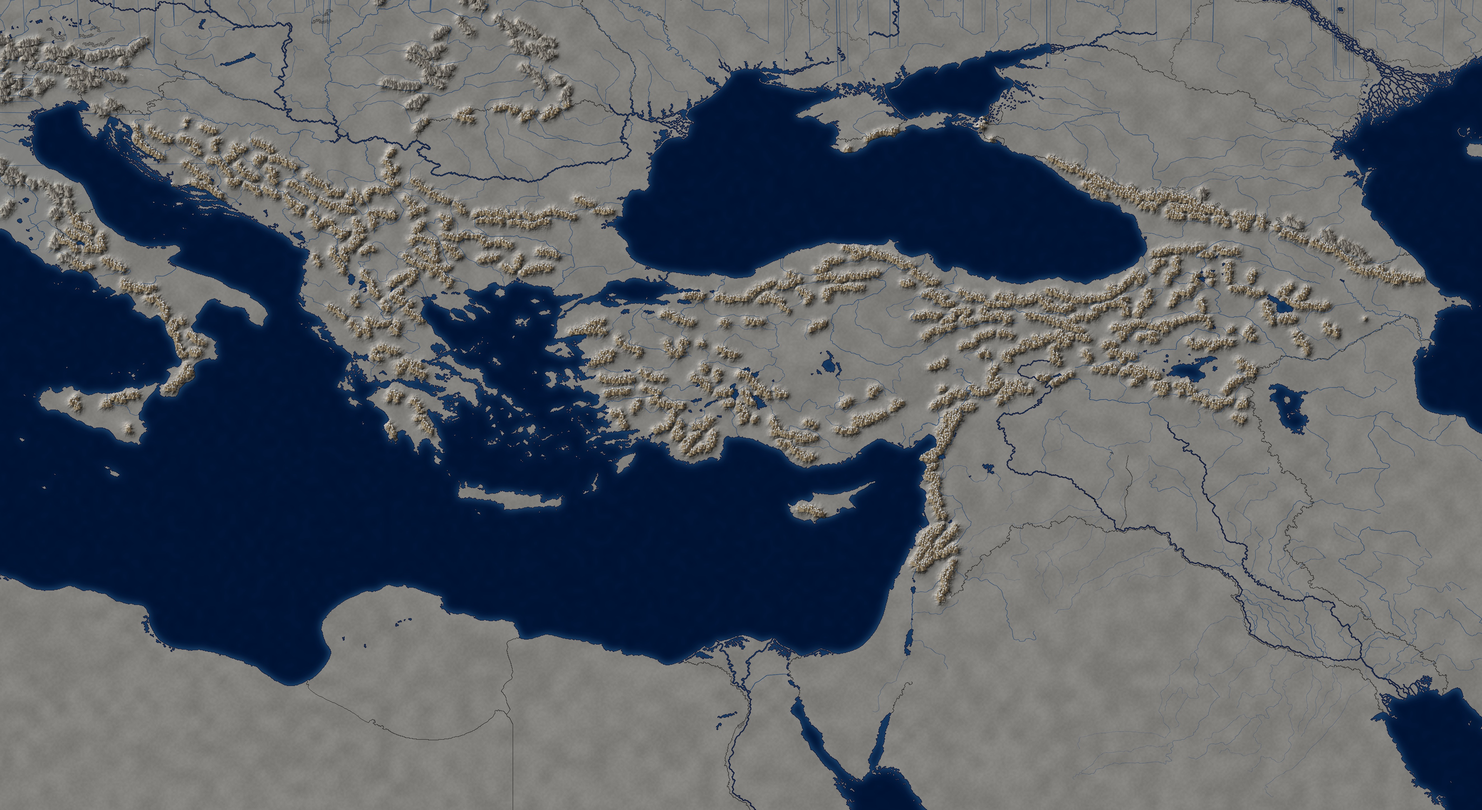
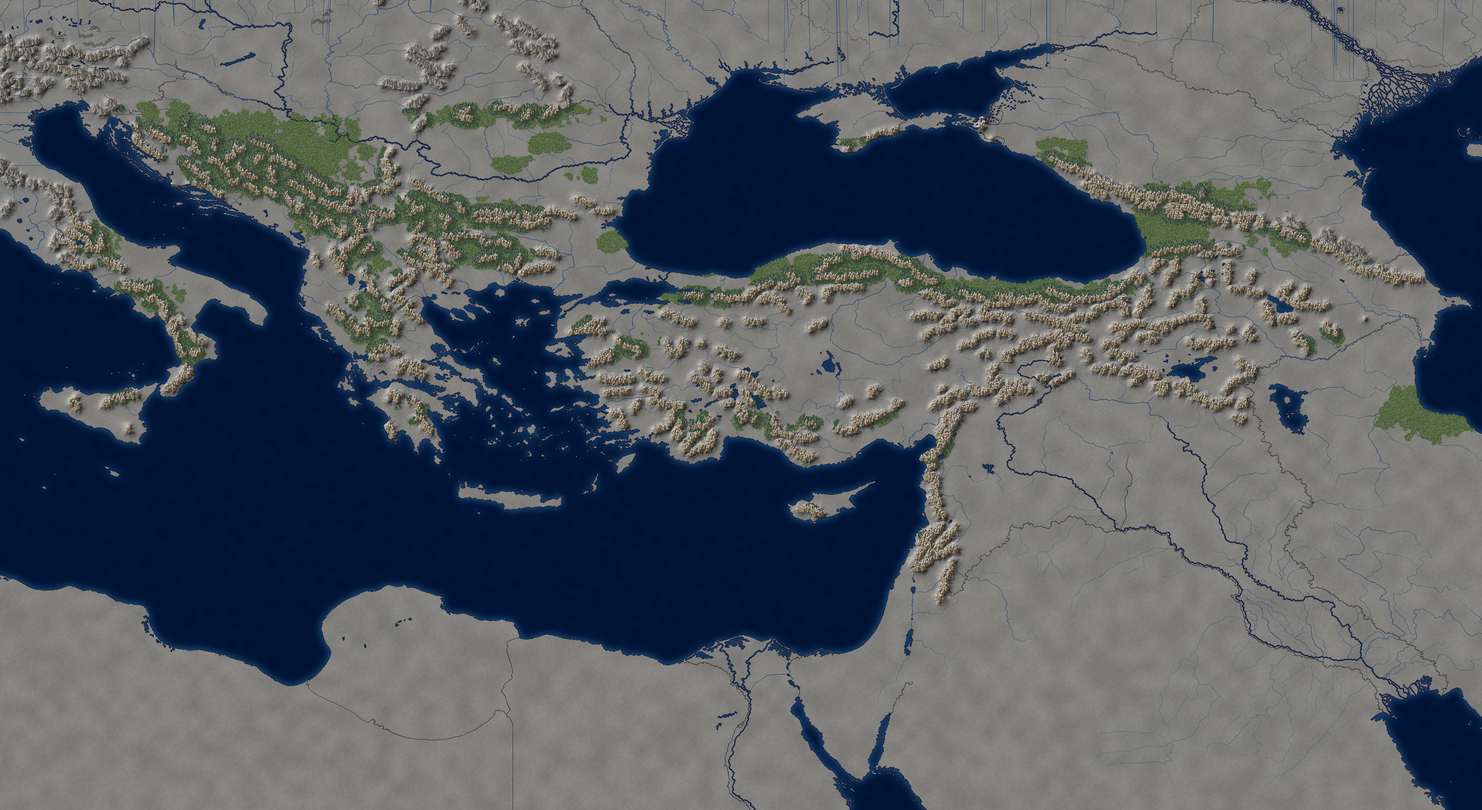
Реки: сужение к истоку, проверка связности по рисунку (каждая река доходит до воды); леса по исторической географии — ёлки у гор, кроны на равнинах, видны сквозь цвет державы
Claude-Session: https://claude.ai/code/session_01DB8qGZSVeWu67G2NacHSuU

diff --git a/index.html b/index.html
@@ -2477,7 +2477,7 @@ function initMap() {
         const d = cx.getImageData(0, 0, im.width, im.height).data;
         const ids = new Uint16Array(im.width * im.height);
         const mtn = new Uint8Array(ids.length), outer = new Uint8Array(ids.length);
-        for (let k = 0; k < ids.length; k++) { ids[k] = (d[k * 4] << 8) | d[k * 4 + 1]; const b = d[k * 4 + 2]; mtn[k] = b > 200 ? 1 : b >= 170 && b <= 190 ? 2 : 0; if (b >= 100 && b < 160) outer[k] = b - 99; }   // 1 — горы, 2 — река
+        for (let k = 0; k < ids.length; k++) { ids[k] = (d[k * 4] << 8) | d[k * 4 + 1]; const b = d[k * 4 + 2]; mtn[k] = b > 200 ? 1 : b >= 170 && b <= 190 ? 2 : b >= 162 && b <= 168 ? 3 : 0; if (b >= 100 && b < 160) outer[k] = b - 99; }   // 1 — горы, 2 — река
         PIX.mtn = mtn; PIX.outer = outer;
         PIX.ids = ids; PIX.w = im.width; PIX.h = im.height; PIX.s = M.idsScale || 2;
         const np = M.provs.length + 1, bb = new Int32Array(np * 4);
@@ -2650,7 +2650,7 @@ function drawOverlay() {
         const i = sy + Math.min(W - 1, Math.floor(x * st)), v = ids[i]; if (!v) continue;
         if (pr[v] < 0 || pOwn[v] < 0) continue;
         const m = PIX.mtn && PIX.mtn[i] && !pFree[v], c = pCol[v], o = (y * tw + x) * 4;
-        d[o] = c[0]; d[o + 1] = c[1]; d[o + 2] = c[2]; d[o + 3] = pFree[v] ? (((x + y) % 5 === 0 || (x - y + 9999) % 5 === 0) ? 110 : 0) : (m ? (PIX.mtn[i] === 2 ? 45 : UI.ridgeA) : 190);
+        d[o] = c[0]; d[o + 1] = c[1]; d[o + 2] = c[2]; d[o + 3] = pFree[v] ? (((x + y) % 5 === 0 || (x - y + 9999) % 5 === 0) ? 110 : 0) : (m ? (PIX.mtn[i] === 2 ? 45 : PIX.mtn[i] === 3 ? 150 : UI.ridgeA) : 190);
       }
     }
     ctx.putImageData(PIX.buf, 0, 0);
@@ -2785,7 +2785,7 @@ function paintVector() {
     if (PIX.vtKey !== key) {
       const vt = PIX.vt; if (vt.width !== vw || vt.height !== vh) { vt.width = vw; vt.height = vh; }
       const vc = vt.getContext('2d'), im = vc.createImageData(vw, vh), d = im.data, ids = PIX.ids, pr = PIX.provReg, pc = PIX.pCol, po = PIX.pOwn, mt = PIX.mtn, W = PIX.w;
-      for (let y = 0; y < vh; y++) { const row = (Y0 + y) * W + X0; for (let x = 0; x < vw; x++) { const i = row + x, v = ids[i]; if (!v || pr[v] < 0 || po[v] < 0) continue; const m = mt && mt[i] && !PIX.pFree[v], c = pc[v], o = (y * vw + x) * 4; d[o] = c[0]; d[o + 1] = c[1]; d[o + 2] = c[2]; const gx = X0 + x, gy = Y0 + y; d[o + 3] = PIX.pFree[v] ? (((gx + gy) % 10 < 1 || (gx - gy + 99999) % 10 < 1) ? 120 : 0) : (m ? (mt[i] === 2 ? 45 : UI.ridgeA) : 190); } }
+      for (let y = 0; y < vh; y++) { const row = (Y0 + y) * W + X0; for (let x = 0; x < vw; x++) { const i = row + x, v = ids[i]; if (!v || pr[v] < 0 || po[v] < 0) continue; const m = mt && mt[i] && !PIX.pFree[v], c = pc[v], o = (y * vw + x) * 4; d[o] = c[0]; d[o + 1] = c[1]; d[o + 2] = c[2]; const gx = X0 + x, gy = Y0 + y; d[o + 3] = PIX.pFree[v] ? (((gx + gy) % 10 < 1 || (gx - gy + 99999) % 10 < 1) ? 120 : 0) : (m ? (mt[i] === 2 ? 45 : mt[i] === 3 ? 150 : UI.ridgeA) : 190); } }
       vc.putImageData(im, 0, 0); PIX.vtKey = key;
     }
     const [sx0, sy0] = toS(X0, Y0), [sx1, sy1] = toS(X1, Y1);

diff --git a/tools/src/6_ui.js b/tools/src/6_ui.js
@@ -232,7 +232,7 @@ function initMap() {
         const d = cx.getImageData(0, 0, im.width, im.height).data;
         const ids = new Uint16Array(im.width * im.height);
         const mtn = new Uint8Array(ids.length), outer = new Uint8Array(ids.length);
-        for (let k = 0; k < ids.length; k++) { ids[k] = (d[k * 4] << 8) | d[k * 4 + 1]; const b = d[k * 4 + 2]; mtn[k] = b > 200 ? 1 : b >= 170 && b <= 190 ? 2 : 0; if (b >= 100 && b < 160) outer[k] = b - 99; }   // 1 — горы, 2 — река
+        for (let k = 0; k < ids.length; k++) { ids[k] = (d[k * 4] << 8) | d[k * 4 + 1]; const b = d[k * 4 + 2]; mtn[k] = b > 200 ? 1 : b >= 170 && b <= 190 ? 2 : b >= 162 && b <= 168 ? 3 : 0; if (b >= 100 && b < 160) outer[k] = b - 99; }   // 1 — горы, 2 — река
         PIX.mtn = mtn; PIX.outer = outer;
         PIX.ids = ids; PIX.w = im.width; PIX.h = im.height; PIX.s = M.idsScale || 2;
         const np = M.provs.length + 1, bb = new Int32Array(np * 4);
@@ -405,7 +405,7 @@ function drawOverlay() {
         const i = sy + Math.min(W - 1, Math.floor(x * st)), v = ids[i]; if (!v) continue;
         if (pr[v] < 0 || pOwn[v] < 0) continue;
         const m = PIX.mtn && PIX.mtn[i] && !pFree[v], c = pCol[v], o = (y * tw + x) * 4;
-        d[o] = c[0]; d[o + 1] = c[1]; d[o + 2] = c[2]; d[o + 3] = pFree[v] ? (((x + y) % 5 === 0 || (x - y + 9999) % 5 === 0) ? 110 : 0) : (m ? (PIX.mtn[i] === 2 ? 45 : UI.ridgeA) : 190);
+        d[o] = c[0]; d[o + 1] = c[1]; d[o + 2] = c[2]; d[o + 3] = pFree[v] ? (((x + y) % 5 === 0 || (x - y + 9999) % 5 === 0) ? 110 : 0) : (m ? (PIX.mtn[i] === 2 ? 45 : PIX.mtn[i] === 3 ? 150 : UI.ridgeA) : 190);
       }
     }
     ctx.putImageData(PIX.buf, 0, 0);
@@ -540,7 +540,7 @@ function paintVector() {
     if (PIX.vtKey !== key) {
       const vt = PIX.vt; if (vt.width !== vw || vt.height !== vh) { vt.width = vw; vt.height = vh; }
       const vc = vt.getContext('2d'), im = vc.createImageData(vw, vh), d = im.data, ids = PIX.ids, pr = PIX.provReg, pc = PIX.pCol, po = PIX.pOwn, mt = PIX.mtn, W = PIX.w;
-      for (let y = 0; y < vh; y++) { const row = (Y0 + y) * W + X0; for (let x = 0; x < vw; x++) { const i = row + x, v = ids[i]; if (!v || pr[v] < 0 || po[v] < 0) continue; const m = mt && mt[i] && !PIX.pFree[v], c = pc[v], o = (y * vw + x) * 4; d[o] = c[0]; d[o + 1] = c[1]; d[o + 2] = c[2]; const gx = X0 + x, gy = Y0 + y; d[o + 3] = PIX.pFree[v] ? (((gx + gy) % 10 < 1 || (gx - gy + 99999) % 10 < 1) ? 120 : 0) : (m ? (mt[i] === 2 ? 45 : UI.ridgeA) : 190); } }
+      for (let y = 0; y < vh; y++) { const row = (Y0 + y) * W + X0; for (let x = 0; x < vw; x++) { const i = row + x, v = ids[i]; if (!v || pr[v] < 0 || po[v] < 0) continue; const m = mt && mt[i] && !PIX.pFree[v], c = pc[v], o = (y * vw + x) * 4; d[o] = c[0]; d[o + 1] = c[1]; d[o + 2] = c[2]; const gx = X0 + x, gy = Y0 + y; d[o + 3] = PIX.pFree[v] ? (((gx + gy) % 10 < 1 || (gx - gy + 99999) % 10 < 1) ? 120 : 0) : (m ? (mt[i] === 2 ? 45 : mt[i] === 3 ? 150 : UI.ridgeA) : 190); } }
       vc.putImageData(im, 0, 0); PIX.vtKey = key;
     }
     const [sx0, sy0] = toS(X0, Y0), [sx1, sy1] = toS(X1, Y1);

diff --git a/tools/mkrivers.py b/tools/mkrivers.py
@@ -41,9 +41,9 @@ for rv in json.load(open(SP + 'rivers.json')):
     cur = []
     for i, (p, nr) in enumerate(zip(dense, near)):
         if not nr: cur.append(p); continue
-        if len(cur) >= 3: runs.append([cur, w, faint, False, True]); cur = []   # прервана водой: устье -> к воде
+        if len(cur) >= 3: runs.append([cur, w, faint, False, True, set()]); cur = []   # прервана водой: устье -> к воде
         else: cur = []
-    if len(cur) >= 3: runs.append([cur, w, faint, False, False])
+    if len(cur) >= 3: runs.append([cur, w, faint, False, False, set()])
 # устья: конец рядом с водой — дотягиваем до воды
 def edge(p): return p[0] < 4 or p[1] < 4 or p[0] > W - 5 or p[1] > H - 5
 for r in runs:
@@ -52,7 +52,7 @@ for r in runs:
         p = pts[end]; d, (qx, qy) = wdist(*p)
         if d < MOUTH or (end == -1 and r[4]) or edge(p):
             if not edge(p) and d < MOUTH * 1.5: (pts.insert(0, (qx, qy)) if end == 0 else pts.append((qx, qy)))
-            r[3] = True
+            r[3] = True; r[5].add(end)
 # притоки: конец рядом с другой рекой — присоединяем
 idm = np.full((H, W), -1, np.int32)
 for i, r in enumerate(runs):
@@ -68,7 +68,7 @@ for i, r in enumerate(runs):
         ys, xs = np.nonzero((win >= 0) & (win != i))
         if not len(ys): continue
         j = np.argmin((ys + y0 - yi) ** 2 + (xs + x0 - xi) ** 2); o = int(win[ys[j], xs[j]])
-        adj[i].add(o); adj[o].add(i)
+        adj[i].add(o); adj[o].add(i); r[5].add(end)
         q = (float(xs[j] + x0), float(ys[j] + y0))
         if end == 0: r[0].insert(0, q)
         else: r[0].append(q)
@@ -84,9 +84,41 @@ kept = 0
 for r, good in zip(runs, ok):
     if not good: continue
     kept += 1
-    d.line([(x * S, y * S) for x, y in r[0]], fill=150 if r[2] else 255, width=max(1, round(r[1] * S)), joint='curve')
+    pts = r[0]
+    # устье — связанный конец (если оба или ни один — тот, что ближе к воде); к истоку река сужается
+    ends = r[5]
+    mouth_last = (-1 in ends and 0 not in ends) or (ends in ({0, -1}, set()) and wdist(*pts[-1])[0] <= wdist(*pts[0])[0])
+    if not mouth_last: pts = pts[::-1]
+    n = len(pts); L = [0.0]
+    for a, b in zip(pts, pts[1:]): L.append(L[-1] + math.hypot(b[0] - a[0], b[1] - a[1]))
+    tot = L[-1] or 1; col = 150 if r[2] else 255
+    for t in range(n - 1):
+        f = 0.45 + 0.55 * min(1.0, L[t + 1] / min(tot, 220))            # первые ~220 px от истока — сужение
+        wpx = max(1.0, r[1] * f * S)
+        a, b = pts[t], pts[t + 1]
+        d.line([(a[0] * S, a[1] * S), (b[0] * S, b[1] * S)], fill=col, width=round(wpx))
+        rr = wpx / 2; d.ellipse([b[0] * S - rr, b[1] * S - rr, b[0] * S + rr, b[1] * S + rr], fill=col)
 m = np.asarray(img.resize((W, H), Image.BOX)).astype(np.float32)   # BOX: чёткий край без размытия
 m = np.clip((m - 25) * 1.25, 0, 255).astype(np.uint8)              # подтянуть контраст края
 m[water] = 0
+# проверка по готовому рисунку: каждое пятно рек должно касаться воды или края карты;
+# близкие (до CONNECT px) — дотягиваем линией от ближайшей точки, далёкие — убираем
+CONNECT = 32
+lab, nlab = nd.label(nd.binary_dilation(m > 40, iterations=1))
+wnear = nd.binary_dilation(water, iterations=3)
+edgeb = np.zeros_like(water); edgeb[:4] = edgeb[-4:] = True; edgeb[:, :4] = edgeb[:, -4:] = True
+okl = set(np.unique(lab[wnear | edgeb]).tolist()) - {0}
+con = Image.new('L', (W, H), 0); dc = ImageDraw.Draw(con); fixed = removed = 0
+for li, sl in enumerate(nd.find_objects(lab), 1):
+    if li in okl: continue
+    sub = lab[sl] == li; ys, xs = np.nonzero(sub); ys = ys + sl[0].start; xs = xs + sl[1].start
+    dd = wd[ys, xs]; j = int(np.argmin(dd))
+    if dd[j] <= CONNECT:
+        qy, qx = wy[ys[j], xs[j]], wx[ys[j], xs[j]]
+        dc.line([(xs[j], ys[j]), (qx, qy)], fill=230, width=2); fixed += 1
+    else:
+        m[ys, xs] = 0; removed += 1
+m = np.maximum(m, np.asarray(con)); m[water] = 0
+print('пятен рек:', nlab, 'дотянуто до воды:', fixed, 'убрано оторванных:', removed)
 np.save(SP + 'umap/rivers.npy', m)
 print('кусков рек', len(runs), 'оставлено', kept, 'убрано оторванных', len(runs) - kept, 'дублей реки автора', dropped_dup, 'пикселей', int((m > 60).sum()))

diff --git a/tools/mkforest.py b/tools/mkforest.py
@@ -1,0 +1,56 @@
+# Леса: карта лесов по исторической географии XIII века (зоны с плотностью) + неровные края (шум),
+# предгорья гуще, гребни хребтов — без леса, пустыни и степи — без леса.
+# Выход: umap/forest.npy — 0/1 маска леса (полная карта), umap/conifer.npy — где хвойные (у гор).
+import json, os, glob
+import numpy as np
+from PIL import Image
+import scipy.ndimage as nd
+SP = os.path.dirname(os.path.abspath(__file__)) + '/'
+fit = json.load(open(SP + 'umap/fit.json'))
+P = np.asarray(Image.open(sorted(glob.glob(SP + '../source/*political*.png'))[0]).convert('RGB')).astype(np.int32)
+kP = (P[..., 0] << 16) | (P[..., 1] << 8) | P[..., 2]
+G = np.asarray(Image.open(sorted(glob.glob(SP + '../source/*regions*.png'))[0]).convert('RGB')).astype(np.int32)
+kG = (G[..., 0] << 16) | (G[..., 1] << 8) | G[..., 2]
+H, W = kP.shape
+k = W / fit.get('W', 2000); l0, sx, p0, sy = fit['p'][0], fit['p'][1] * k, fit['p'][2], fit['p'][3] * k
+# (долгота, широта, полуось по долготе, по широте, плотность, подпись)
+ZONES = [
+ (19.0, 44.3, 3.0, 1.3, 0.75, 'Шумадия, Сербия, Босния'), (17.6, 45.0, 2.0, 0.7, 0.7, 'славонские дубравы'),
+ (15.8, 45.3, 1.3, 0.6, 0.6, 'Хорватия'), (23.5, 42.7, 2.6, 0.65, 0.55, 'Стара-Планина, Средна-Гора'),
+ (24.4, 41.7, 1.4, 0.5, 0.65, 'Родопы'), (21.5, 41.7, 1.3, 0.7, 0.45, 'горы Македонии'),
+ (21.0, 39.8, 1.0, 1.0, 0.45, 'Пинд, Эпир'), (22.2, 37.6, 0.8, 0.5, 0.3, 'Аркадия'),
+ (26.0, 44.6, 0.75, 0.35, 0.85, 'Кодрии Влэсией'), (25.0, 44.1, 0.8, 0.3, 0.75, 'Телеорман'),
+ (25.0, 45.3, 3.2, 0.4, 0.65, 'предгорья Карпат'), (27.0, 43.7, 0.75, 0.35, 0.6, 'Делиорман'),
+ (27.7, 42.0, 0.6, 0.35, 0.75, 'Странджа'), (29.8, 40.6, 1.6, 0.4, 0.5, 'Вифиния'),
+ (33.0, 41.3, 3.6, 0.45, 0.75, 'Пафлагония'), (38.5, 40.8, 3.2, 0.4, 0.7, 'Понтийские Альпы'),
+ (42.0, 42.2, 1.5, 0.7, 0.85, 'Колхида'), (45.2, 41.9, 1.2, 0.5, 0.55, 'Кахетия'),
+ (44.0, 43.3, 3.0, 0.5, 0.55, 'Северный Кавказ'), (39.5, 44.4, 1.0, 0.5, 0.6, 'Кубань'),
+ (34.2, 44.65, 0.6, 0.16, 0.65, 'Крымские горы'), (49.2, 37.5, 1.6, 0.9, 0.85, 'Гирканские леса'),
+ (46.5, 39.3, 0.8, 0.5, 0.4, 'Арцах'), (31.3, 37.2, 2.6, 0.5, 0.35, 'Западный Тавр'),
+ (35.0, 37.2, 1.0, 0.4, 0.35, 'Киликийский Тавр'), (36.3, 36.6, 0.4, 0.6, 0.4, 'Аман'),
+ (35.9, 34.1, 0.25, 0.4, 0.35, 'ливанские кедры'), (32.9, 34.95, 0.28, 0.13, 0.55, 'Троодос'),
+ (16.3, 39.2, 0.6, 0.6, 0.7, 'Сила'), (15.5, 40.6, 1.2, 0.8, 0.45, 'Апеннины'), (14.2, 41.9, 1.0, 0.7, 0.4, 'Абруцци'),
+ (14.6, 37.9, 0.5, 0.25, 0.45, 'Неброди'), (28.2, 39.3, 1.3, 0.6, 0.35, 'горы Мисии'), (26.9, 39.75, 0.4, 0.3, 0.5, 'Ида'),
+ (23.7, 38.6, 0.6, 0.35, 0.35, 'Эвбея'), (20.0, 42.5, 1.2, 0.6, 0.5, 'Зета, Арбанон'),
+]
+yy, xx = np.mgrid[0:H, 0:W]
+lon = l0 + xx / sx; lat = p0 - yy / sy
+D = np.zeros((H, W), np.float32)
+for lo, la, rx, ry, dens, _ in ZONES:
+    q = ((lon - lo) / rx) ** 2 + ((lat - la) / ry) ** 2
+    D = np.maximum(D, (dens * np.exp(-q ** 2)).astype(np.float32))
+del yy, xx, lon, lat
+sea = np.isin(kP, [0x001F48, 0x000020])
+ridge = np.isin(kG, [0x8B5A2B, 0x4A2F1A, 0xFF00FF, 0x5E5E5E]) | (kP == 0x5E5E5E)
+dr = nd.distance_transform_edt(~ridge)
+D += np.where((dr > 3) & (dr < 30), 0.22, 0) * (D > 0.12)          # предгорья гуще
+rng = np.random.default_rng(1203)
+def noise(scale):
+    n = rng.random((H // scale + 2, W // scale + 2)).astype(np.float32)
+    return np.asarray(Image.fromarray((n * 255).astype(np.uint8)).resize((W + 2 * scale, H + 2 * scale), Image.BICUBIC), np.float32)[scale:scale + H, scale:scale + W] / 255 - 0.5
+nz = noise(40) * 0.6 + noise(14) * 0.3 + noise(5) * 0.12
+forest = (D + nz * 0.7 > 0.55) & ~sea & (dr > 2.5)
+forest = nd.binary_opening(forest, iterations=1)
+conifer = dr < 26
+np.save(SP + 'umap/forest.npy', forest); np.save(SP + 'umap/conifer.npy', conifer & forest)
+print('лес, % суши:', round(forest.sum() / (~sea).sum() * 100, 1))

diff --git a/tools/peaks.py b/tools/peaks.py
@@ -57,3 +57,47 @@ def draw_peaks(out, allm, rng, scale=2, cell=7, bg=None):
     o = out.astype(np.float32) * (1 - s * 0.45)
     o = o * (1 - A) + L[..., :3] * A
     return np.clip(o, 0, 255).astype(np.int32)
+
+def draw_trees(out, forest, conifer, rng, scale=2, cell=5):
+    """Деревья-значки по маске леса: хвойные (тёмные ёлки) у гор, лиственные (кроны) на равнинах; тень вправо-вниз."""
+    H, W = forest.shape
+    # подложка леса: земля под кронами темнее и зеленее
+    soft = nd.gaussian_filter(forest.astype(np.float32), 2.0)[..., None]
+    floor = np.array([84, 98, 70], np.float32)
+    o = out.astype(np.float32) * (1 - soft * 0.55) + floor * soft * 0.55
+    ys, xs = np.nonzero(forest)
+    key = (ys // cell) * (W // cell + 1) + (xs // cell)
+    order = rng.permutation(len(ys)); _, first = np.unique(key[order], return_index=True)
+    sel = order[first]; sel = sel[rng.random(len(sel)) < 0.92]
+    py, px = ys[sel], xs[sel]; con = conifer[py, px]
+    S = scale
+    lay = Image.new('RGBA', (W * S, H * S), (0, 0, 0, 0)); d = ImageDraw.Draw(lay)
+    sh = Image.new('L', (W * S, H * S), 0); ds = ImageDraw.Draw(sh)
+    for i in np.argsort(py):
+        x, y = (px[i] + rng.random() - 0.5) * S, (py[i] + rng.random() - 0.5) * S
+        sz = (3.6 + rng.random() * 1.6) * S
+        j = int(rng.integers(-10, 11))
+        if con[i]:
+            # ёлка: два яруса
+            dark, lit = (38 + j // 2, 62 + j, 44 + j // 2), (60 + j // 2, 88 + j, 60 + j // 2)
+            ds.ellipse([x - sz * 0.2, y - sz * 0.1, x + sz * 0.9, y + sz * 0.35], fill=120)
+            for t, (wf, yf) in enumerate(((0.5, 0.0), (0.38, -0.45))):
+                top = (x, y - sz * (0.95 + yf * 0.2) + yf * sz); bl = (x - sz * wf, y + yf * sz * 0.9); br = (x + sz * wf, y + yf * sz * 0.9)
+                d.polygon([top, bl, (x, y + yf * sz * 0.9)], fill=lit + (255,)); d.polygon([top, (x, y + yf * sz * 0.9), br], fill=dark + (255,))
+            d.line([(x, y), (x, y + sz * 0.2)], fill=(60, 44, 30, 255), width=max(1, S // 2))
+        else:
+            # лиственное: крона с бликом слева-сверху
+            r = sz * 0.55
+            base, hi, lo = (72 + j, 98 + j, 50 + j // 2), (106 + j, 132 + j, 70 + j // 2), (50 + j // 2, 70 + j, 38)
+            ds.ellipse([x - r * 0.2, y - r * 0.2, x + r * 1.6, y + r * 0.9], fill=120)
+            d.line([(x, y + r * 0.2), (x, y + r * 0.9)], fill=(70, 52, 34, 255), width=max(1, S // 2))
+            d.ellipse([x - r, y - r * 1.5, x + r, y + r * 0.3], fill=lo + (255,))
+            d.ellipse([x - r * 0.95, y - r * 1.55, x + r * 0.75, y + r * 0.1], fill=base + (255,))
+            d.ellipse([x - r * 0.75, y - r * 1.45, x + r * 0.1, y - r * 0.55], fill=hi + (255,))
+    lay = lay.resize((W, H), Image.LANCZOS)
+    sh = sh.filter(ImageFilter.GaussianBlur(1.5 * S)).resize((W, H), Image.BILINEAR)
+    L = np.asarray(lay).astype(np.float32); A = L[..., 3:4] / 255
+    s = np.asarray(sh).astype(np.float32)[..., None] / 255
+    o = o * (1 - s * 0.4)
+    o = o * (1 - A) + L[..., :3] * A
+    return np.clip(o, 0, 255).astype(np.int32)

diff --git a/tools/mkmap3.py b/tools/mkmap3.py
@@ -86,8 +86,12 @@ if os.path.exists(SP + 'umap/rivers.npy'):
     rv = np.load(SP + 'umap/rivers.npy').astype(np.float32)[..., None] / 255
     rcol = np.array([30, 66, 112], np.float32)
     out = np.clip(out.astype(np.float32) * (1 - rv) + rcol * rv, 0, 255).astype(np.int32)
-# рисованные пики по хребтам (дальние — раньше, ближние перекрывают)
+# леса (mkforest.py): деревья-значки под пиками
 sys.path.insert(0, SP)
+from peaks import draw_trees
+if os.path.exists(SP + 'umap/forest.npy'):
+    out = draw_trees(out, np.load(SP + 'umap/forest.npy') & landm, np.load(SP + 'umap/conifer.npy'), np.random.default_rng(1204))
+# рисованные пики по хребтам (дальние — раньше, ближние перекрывают)
 from peaks import draw_peaks
 out = draw_peaks(out, allm & landm, np.random.default_rng(1261), bg=bgm & ~zone)
 # широкая маска гор (для режима «хребты своего цвета» — без заливки державы) — в синий канал ids.png
@@ -100,6 +104,9 @@ if os.path.exists(idp):
     if os.path.exists(SP + 'umap/rivers.npy'):   # реки: B=180 — видны сквозь цвет державы
         rvm = (np.load(SP + 'umap/rivers.npy') > 45) & ~keep_outer & ((I[..., 0].astype(int) << 8 | I[..., 1]) > 0)
         b[rvm] = 180
+    if os.path.exists(SP + 'umap/forest.npy'):   # леса: B=165 — видны сквозь цвет державы (слабее гор)
+        fm = np.load(SP + 'umap/forest.npy') & ~keep_outer & (b == 0) & ((I[..., 0].astype(int) << 8 | I[..., 1]) > 0)
+        b[fm] = 165
     I[..., 2] = b; Image.fromarray(I).save(idp, optimize=True)
 im = Image.fromarray(out.astype(np.uint8))
 W, H = a.shape[1], a.shape[0]

diff --git a/tools/README.md b/tools/README.md
@@ -11,7 +11,8 @@
 2. `python3 mkadj.py` — связи регионов с учётом гор: коричневый хребет закрывает путь, перевал (пунктир #FF00FF) открывает → `umap/adj.json`, `umap/passes.json`.
 3. `python3 mkgen2.py` — игровые области, владельцы (таблица `FMAP`), связи, названия регионов из `names.json` → `gen.json`, `mapinfo3.json`.
 4. `python3 mkprov.py ..` — `../ids.png` (номер провинции в цвете пикселя, вполовину разрешения) и список провинций.
-4а. `python3 mkrivers.py` — реки: линии из Natural Earth (`rivers.json` — вырезка `ne_10m_rivers_lake_centerlines` и `ne_10m_rivers_europe`, общественное достояние, naturalearthdata.com) в проекции карты; рядом с водой, нарисованной автором (Дунай, Нил, Тигр, Евфрат), не рисуются → `umap/rivers.npy`.
+4а. `python3 mkrivers.py` — реки (дубли рек автора убираются, устья дотягиваются до воды, притоки присоединяются, оторванные убираются, к истоку река сужается): линии из Natural Earth (`rivers.json` — вырезка `ne_10m_rivers_lake_centerlines` и `ne_10m_rivers_europe`, общественное достояние, naturalearthdata.com) в проекции карты; рядом с водой, нарисованной автором (Дунай, Нил, Тигр, Евфрат), не рисуются → `umap/rivers.npy`.
+4б. `python3 mkforest.py` — леса по исторической географии XIII века (зоны с плотностью в самом скрипте: Шумадия, Кодрии Влэсией, Телеорман, Понт, Колхида и др.), предгорья гуще, гребни и пустыни без леса → `umap/forest.npy`, `umap/conifer.npy` (хвойные у гор).
 5. `python3 mkmap3.py ..` — фон `../map.jpg` (зерно суши, глубина моря, рельеф под горами и рисованные пики по хребтам — `peaks.py`) и широкая маска гор в синем канале `../ids.png`; затем `python3 mkvec.py ..` — векторные границы `../borders.js`.
 6. `python3 mkpadj.py` — граф соседства провинций для движения войск (суша, перевалы, проливы, море) → `umap/padj.json` и `mapinfo3.json`.
 7. `python3 mkroads.py ..` — дороги по местности для каждой связи провинций (поиск пути по сетке 3×3 px: хребты непроходимы, кроме перевалов; по морю — только по воде) → `../roads.js`. Морские связи без пути по воде убираются из графа.
